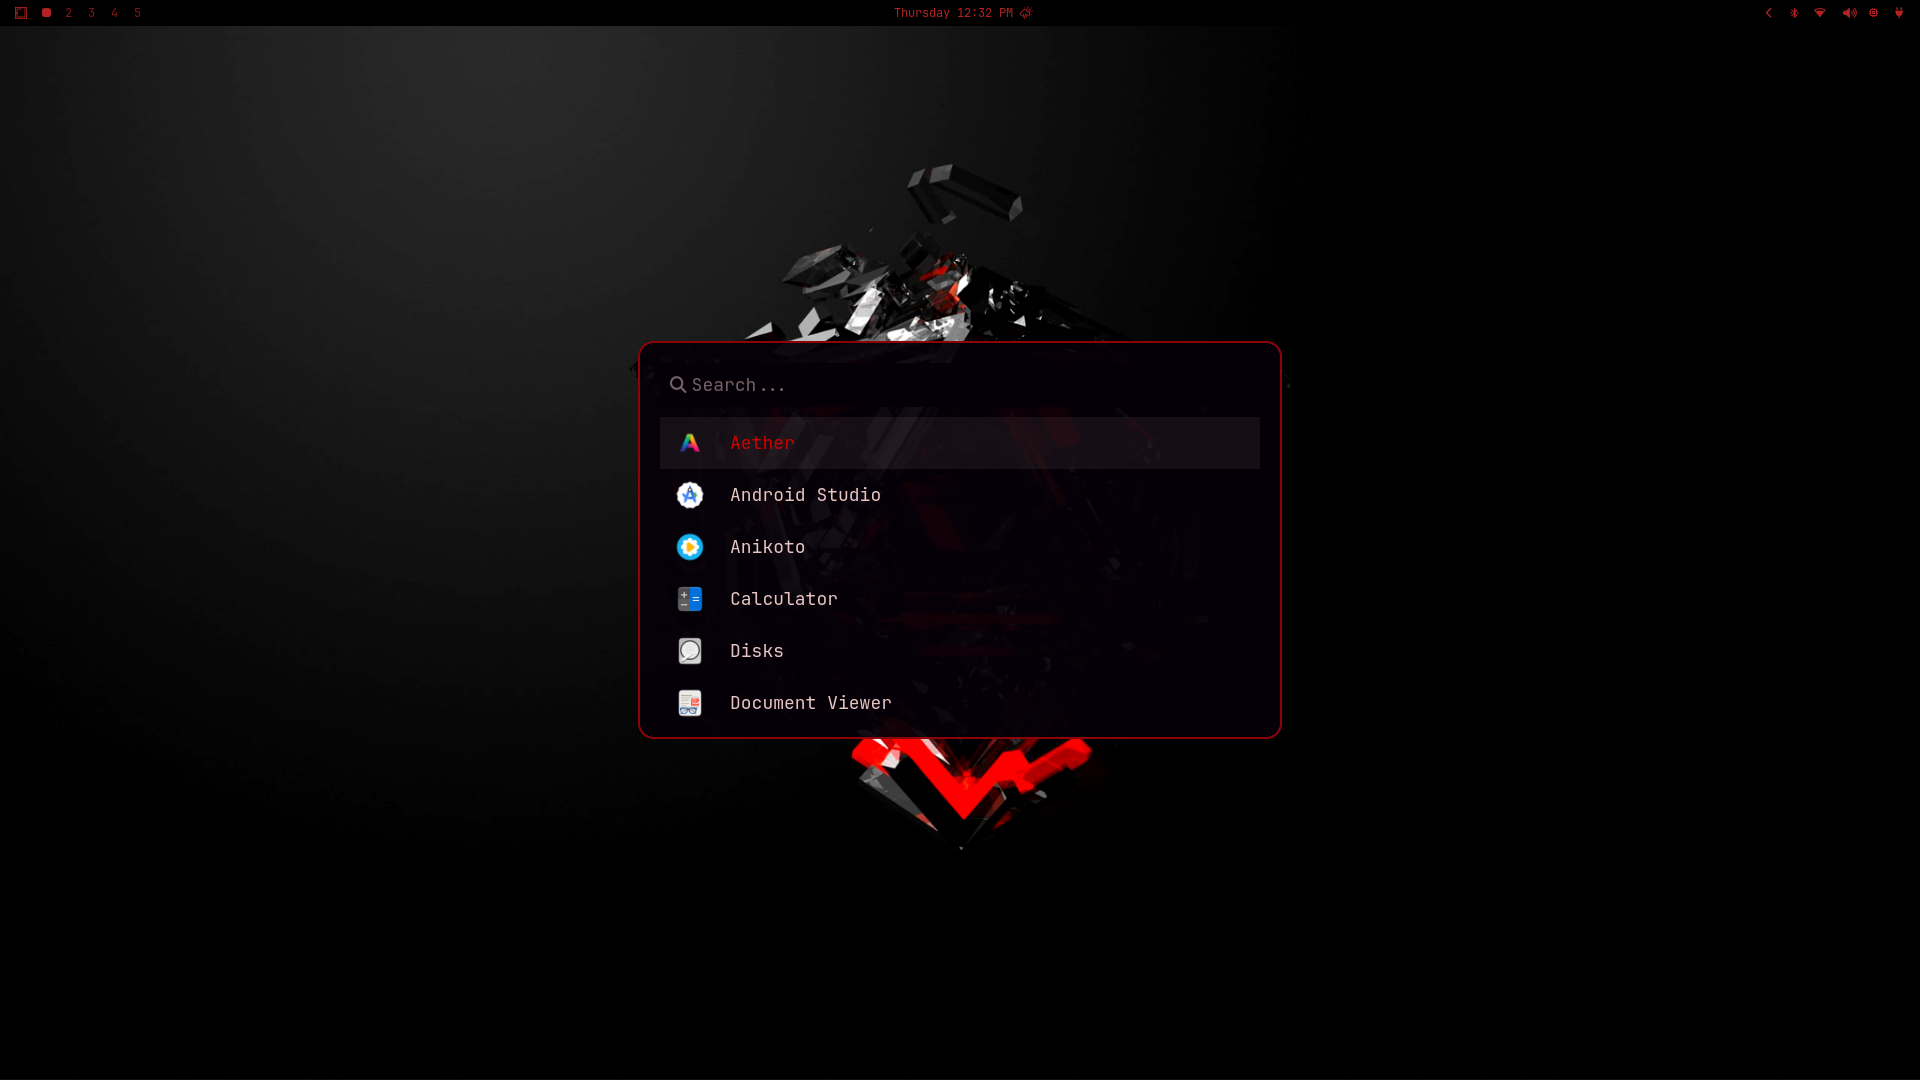
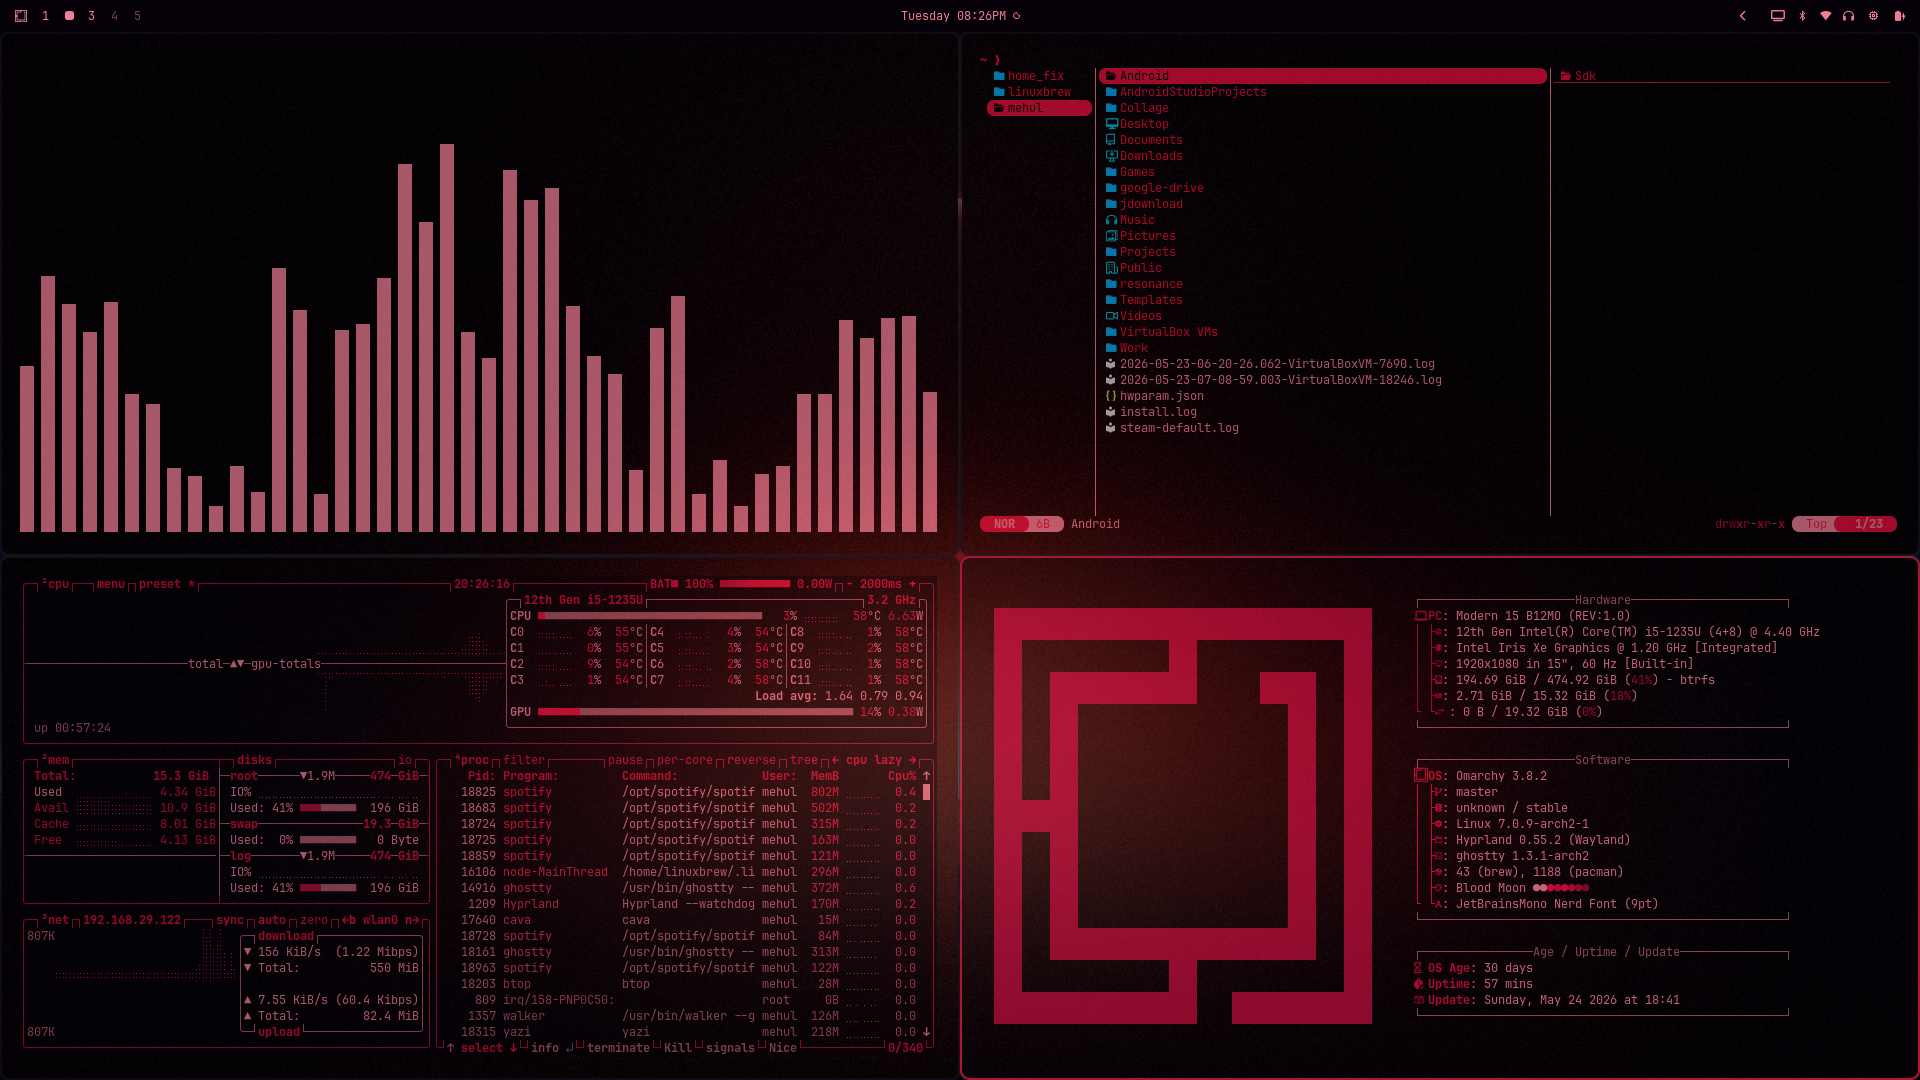
docs: add second preview image and restore first one

diff --git a/README.md b/README.md
@@ -1,5 +1,6 @@
 <div align="center">
-  <img src="preview.png" alt="Blood-Moon Preview" width="100%">
+  <img src="preview.png" alt="Blood-Moon Preview 1" width="100%">
+  <img src="preview2.png" alt="Blood-Moon Preview 2" width="100%">
 
   # 🌙 Blood-Moon Theme
   